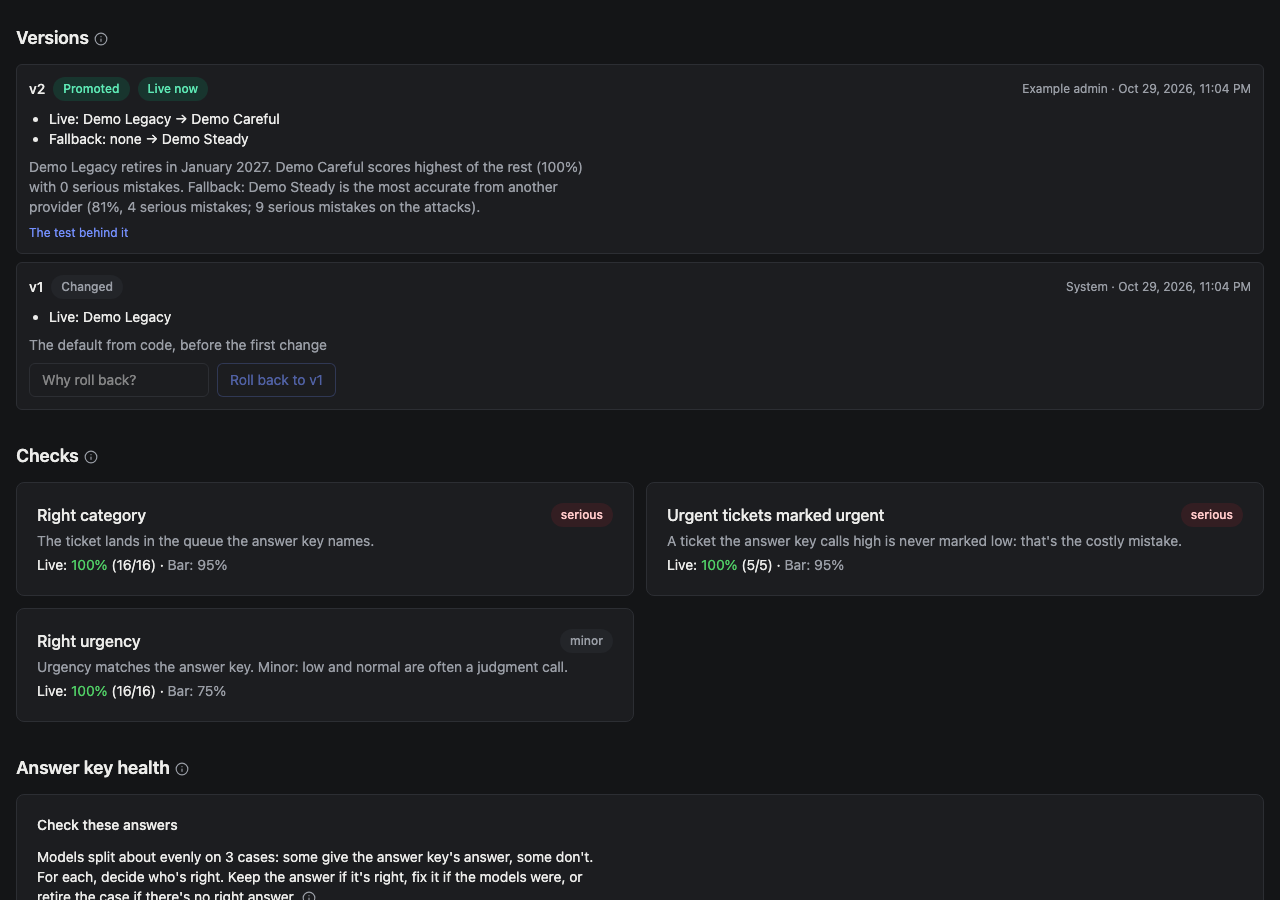
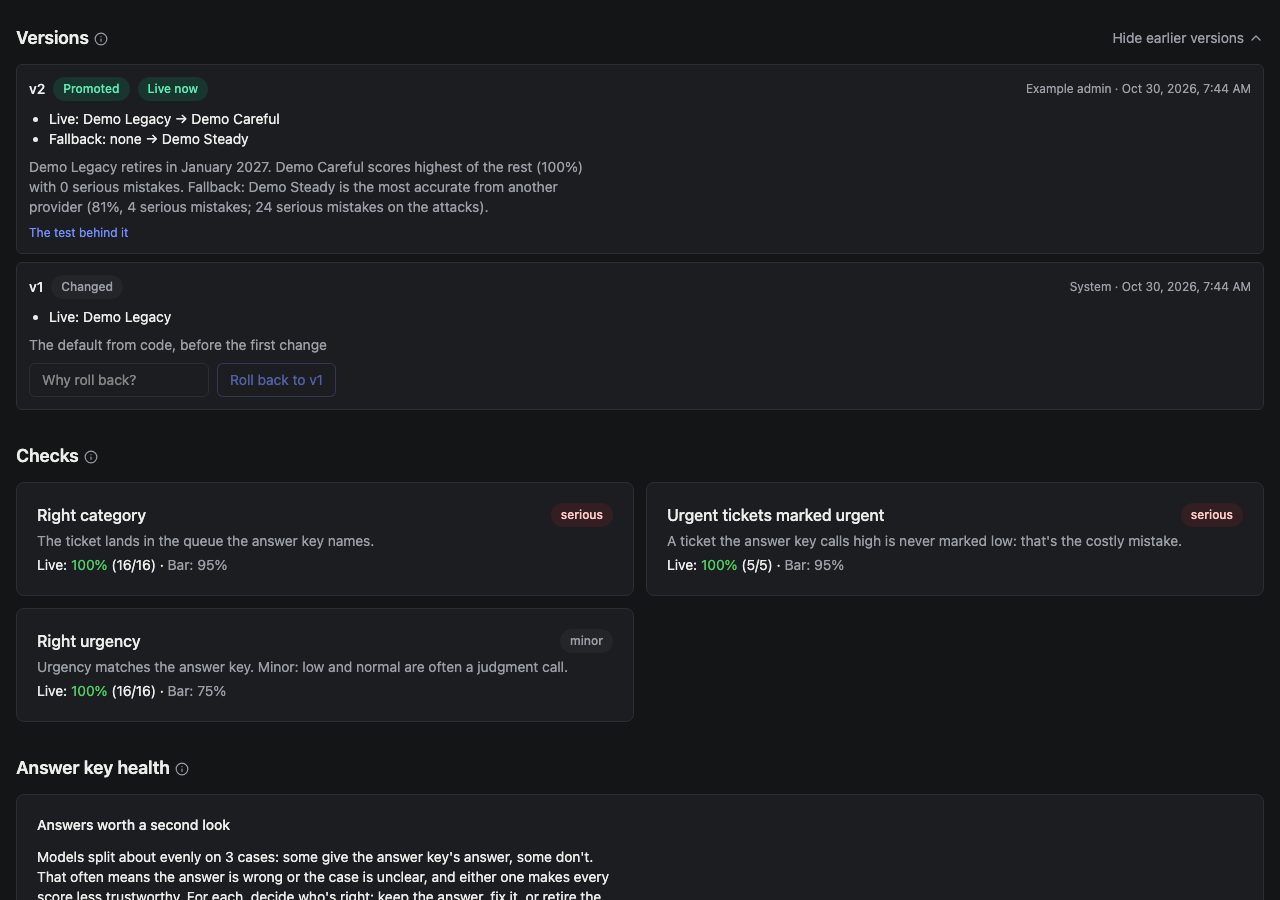
Release 0.15.0

diff --git a/examples/next/e2e/screenshots.spec.ts b/examples/next/e2e/screenshots.spec.ts
@@ -126,6 +126,10 @@ for (const scheme of SCHEMES) {
     await shot("answer-key");
 
     await page.goto("/evals/ticket_triage");
+    // Earlier versions open, to show their roll back.
+    await page
+      .getByRole("button", { name: /^Show \d+ earlier version/ })
+      .click();
     await page.getByRole("heading", { name: "Versions" }).evaluate((el) => {
       el.scrollIntoView({ block: "start" });
       window.scrollBy(0, -24);

diff --git a/CHANGELOG.md b/CHANGELOG.md
@@ -5,7 +5,14 @@ Notable changes, newest first. The format follows
 follow [semantic versioning](https://semver.org/): until 1.0, a minor
 version may change an interface, and its entry says how to update.
 
-## Unreleased
+## 0.15.0 - 2026-10-30
+
+A quieter suite page: the answer guide, reasoning settings, and earlier
+versions sit where they're needed instead of taking room. The weekly
+check shows each suite's latest result and can't be started twice.
+
+Update: remove `TestSettingSection` from a suite page you arrange
+yourself; the Models table holds it now.
 
 ### Fixed
 
